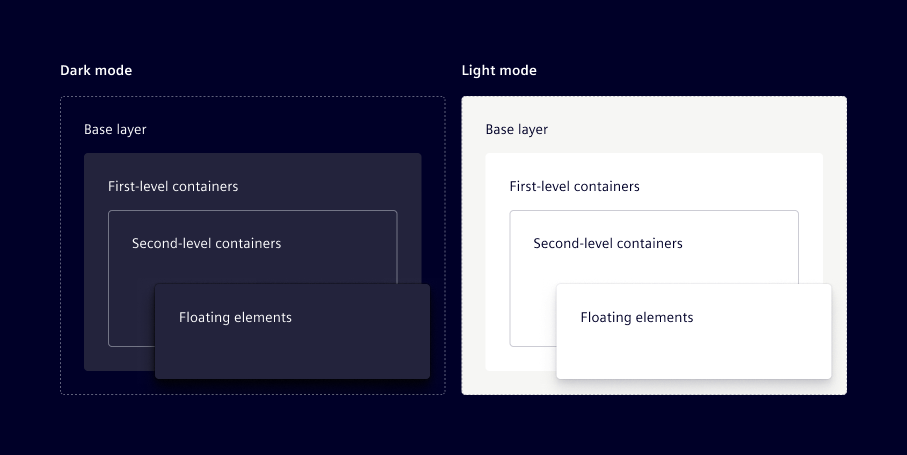
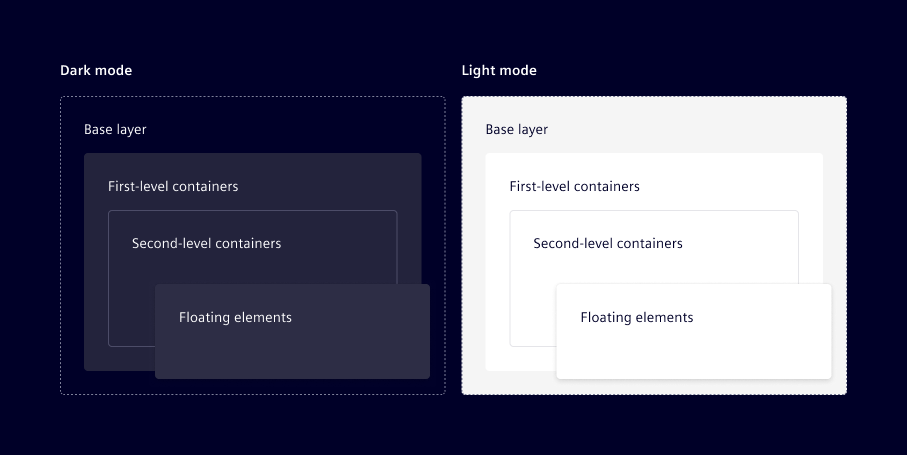
replaced mentions of old color tokens

Changed region(s): [[0.1852, 0.8308, 0.4631, 0.8615]]

diff --git a/sidebars.ts b/sidebars.ts
@@ -1439,7 +1439,6 @@ const sidebars: SidebarsConfig = {
       className: 'doc-sidebar-item-bold',
       label: 'Theming & setup',
       items: [
-        'styles/global-styles',
         'styles/theming/usage-developers',
         'styles/theming/usage-designers',
       ],

diff --git a/docs/styles/elevation.md b/docs/styles/elevation.md
@@ -15,11 +15,11 @@ description: Elevation in our design system defines the perceived distance of a 
 Our design system achieves elevation through the application of background color layers, borders and selective shadows to achieve depth and clarity.
 
 :::info
-**Important note:** We changed the elevation approach starting with version 4.0 of our design system, so it is only partially applicable for v3.x (see [migration guide](../home/migration/migration-overview.md) for guidance).
+**Important note:** We changed the elevation approach starting with version 4.0 of our design system, so it is only partially applicable for v3.x (see [migration guide](../home/migration/migration-overview.md) for guidance). With version 6.0, we changed the available tokens for background layers and borders, further refining the elevation system (see [colors](../styles/colors.md)).
 :::
 
 Our approach to elevation is two-fold:
-1. **Background color layers:** Primarily achieved through a system of distinct `color-` and `color-component-` tokens and additional border-colors. This defines the foundational stacking order for static content.
+1. **Background color layers:** Primarily achieved through a system of distinct background tokens and additional border-colors. This defines the foundational stacking order for static content.
 2. **Selective drop shadows:** Used as a separate visual cue for elements that float above the UI, demanding immediate attention or representing a temporary interaction.
 
 When you use it intentionally, you can achieve:
@@ -36,30 +36,31 @@ This model outlines the primary elevation levels for static UI elements:
 
 #### Base layer
 - **Purpose:** Main page background for the entire user interface.
-- **Usage:** Use `color-1` for the main canvas of your application, large sections, or the default background of a page.
+- **Usage:** Use `--si-sys-color-background-0` for the main canvas of your application, large sections, or the default background of a page.
 
 :::tip
-Visually separate large sections on the base layer by applying [borders](borders.md) (e.g. `color-soft-bdr` or `color-weak-bdr`). When using our components, we recommend using the available `outline` variants.
+Visually separate large sections on the base layer by applying [borders](borders.md) (e.g. `--si-sys-color-border-4` or `--si-sys-color-border-3`). When using our components, we recommend using the available `outline` variants.
 :::
 
 #### First-level containers
 - **Purpose:** Container elements that need to stand out from the main background.
-- **Usage:** Apply `color-2` or `component-1` (which shares the same color value in the new theme introduced in v4.0) to components like cards, side panels, distinct content blocks, or primary interactive elements.
+- **Usage:** Apply `--si-sys-color-background-1` to components like cards, side panels, distinct content blocks, or primary interactive elements.
 
 #### Second-level containers
 - **Purpose:** Nested containers within a container, e.g. a sub-section inside a card.
-- **Usage:** Maintain `color-2` as the background, but visually separate these nested containers with [borders](borders.md) (e.g. `color-soft-bdr` or `color-weak-bdr`). Alternatively, use `color-component-2` which is semi-transparent.
+- **Usage:** Maintain `--si-sys-color-background-1` as background, but visually separate these nested containers with [borders](borders.md) (e.g. `--si-sys-color-border-3`).
 
 #### Floating elements
 - **Purpose:** Elements that float above the main UI, demanding immediate attention or representing a temporary interaction.
-- **Usage:** Use selective shadows (primarily `shadow-4`, see [shadow](shadows.md)) to indicate physical overlap for components like [dropdowns](../components/dropdown/index.mdx), [tooltips](../components/tooltip/index.mdx), [modals](../components/modal/index.mdx), and [toasts](../components/toast/index.mdx).
+- **Usage:** Use selective shadows (primarily `--si-sys-color-effects-shadow-30`, see [shadow](shadows.md)) to indicate physical overlap for components like [dropdowns](../components/dropdown/index.mdx), [tooltips](../components/tooltip/index.mdx), [modals](../components/modal/index.mdx), and [toasts](../components/toast/index.mdx).
 
 We don’t use shadows that are part of the primary layout flow e.g. [navigation elements](../components/application-menu) or [cards](../components/card/index.mdx).
 
 ![Elevation example](https://www.figma.com/design/wEptRgAezDU1z80Cn3eZ0o/iX-Documentation-illustrations?node-id=6680-26&t=kzkpbUNYKiDRChug-4)
-### Other `color-` tokens
 
-We recommend to stick to the `color-1` and `color-2` model for primary background layering. `color-3` to `color-8` are preserved for specific component use cases and should not be used.
+### Other `background-#` tokens
+
+We recommend to stick to the `--si-sys-color-background-0` and `--si-sys-color-background-1` model for primary background layering. `--si-sys-color-background-2` to `--si-sys-color-background-3` are preserved for specific component use cases and should not be used.
 
 ### Interaction states (hover & active)
 
